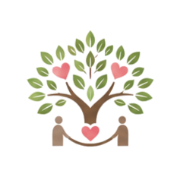
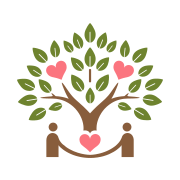
Add files via upload

Changed region(s): [[0.0833, 0.1111, 0.9167, 0.8889]]

diff --git a/index.html b/index.html
@@ -48,7 +48,7 @@
   <div style="position:sticky; top:0; z-index:20; background:{{ bg }}ee; backdrop-filter:blur(6px); border-bottom:1px solid {{ hairline }};">
     <div style="display:flex; align-items:center; justify-content:space-between; padding:{{ navPadY }} {{ padX }}; gap:12px;">
       <a href="#top" style="display:flex; align-items:center; gap:10px; min-width:0; text-decoration:none; color:inherit;">
-        <img src="./logo_jain01_01-mr49qaff.png" alt="logo_jain01_01" style="max-width: 100%; height: 48px; display: block; object-fit: cover; width: 52px; flex-shrink:0;">
+        <img src="images/logo-nav.png" alt="logo_jain01_01" style="max-width: 100%; height: 48px; display: block; object-fit: cover; width: 52px; flex-shrink:0;">
         <div style="display:flex; flex-direction:column; gap:2px; min-width:0;">
           <div style="font-family: 'Noto Serif KR',serif; font-weight: 700; font-size: 18px; letter-spacing: -0.1px; color: #3A2E24; white-space:nowrap;">자인재가노인복지센터</div>
           <div style="font-size:11.5px; color:{{ inkSoft }}; letter-spacing:0.1px; display:{{ navSubtitleDisplay }};">慈(사랑 자)仁(공경할 인) — 사랑과 공경으로 모시겠습니다</div>
@@ -248,9 +248,9 @@
   <!-- FOOTER -->
   <div style="border-top:1px solid {{ hairline }};">
     <div style="padding:{{ footerPadV }}; display:flex; align-items:center; justify-content:center; gap:{{ footerLogoGap }}; flex-wrap:wrap;">
-      <a href="#" style="display:flex; align-items:center;"><img src="images/logo_jain01-sm.png" alt="자인재가노인복지센터" style="height:48px; width:auto; object-fit:contain;"></a>
-      <a href="https://www.nhis.or.kr" target="_blank" rel="noopener" style="display:flex; align-items:center;"><img src="images/logo_jain02.png" alt="국민건강보험공단" style="height:30px; width:auto; object-fit:contain;"></a>
-      <a href="https://www.longtermcare.or.kr" target="_blank" rel="noopener" style="display:flex; align-items:center;"><img src="images/logo_jain03.png" alt="노인장기요양보험" style="height:30px; width:auto; object-fit:contain;"></a>
+      <a href="#" style="display:flex; align-items:center;"><img src="images/logo_jain01-footer.png" alt="자인재가노인복지센터" style="height:76px; width:auto; object-fit:contain;"></a>
+      <a href="https://www.nhis.or.kr" target="_blank" rel="noopener" style="display:flex; align-items:center;"><img src="images/logo_jain02.png" alt="국민건강보험공단" style="height:44px; width:auto; object-fit:contain;"></a>
+      <a href="https://www.longtermcare.or.kr" target="_blank" rel="noopener" style="display:flex; align-items:center;"><img src="images/logo_jain03.png" alt="노인장기요양보험" style="height:44px; width:auto; object-fit:contain;"></a>
     </div>
     <div style="padding:{{ footerBottomPadV }}; border-top:1px solid {{ hairline }}; display:flex; flex-direction:{{ footerBottomDir }}; justify-content:{{ footerBottomAlign }}; align-items:center; font-size:13px; color:{{ inkSoft }}; flex-wrap:wrap; gap:8px; text-align:{{ footerBottomTextAlign }};">
       <div>© 2026 자인재가노인복지센터. All rights reserved.</div>